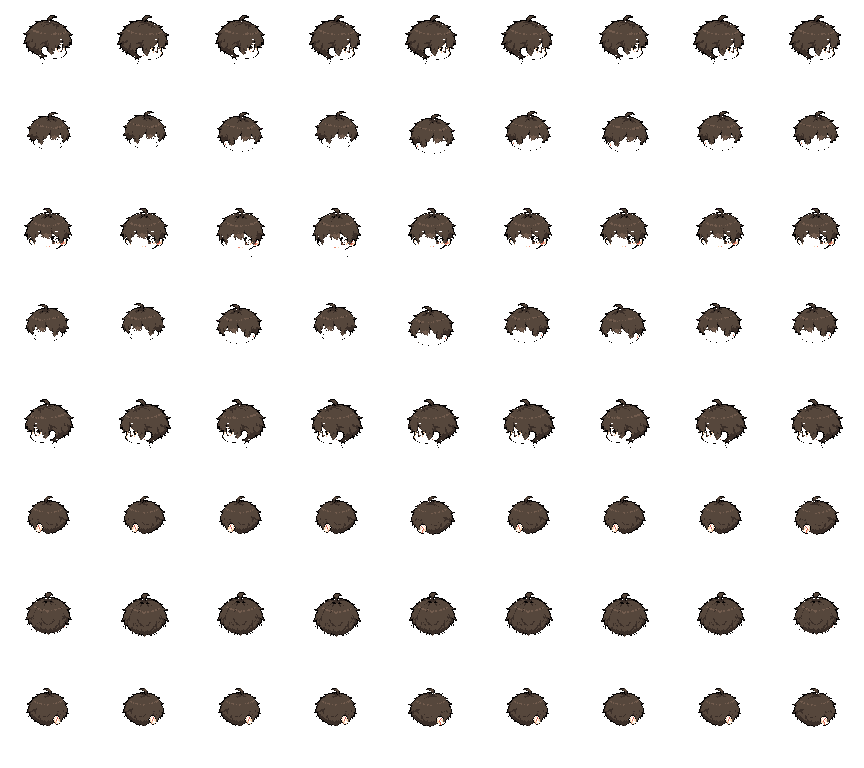
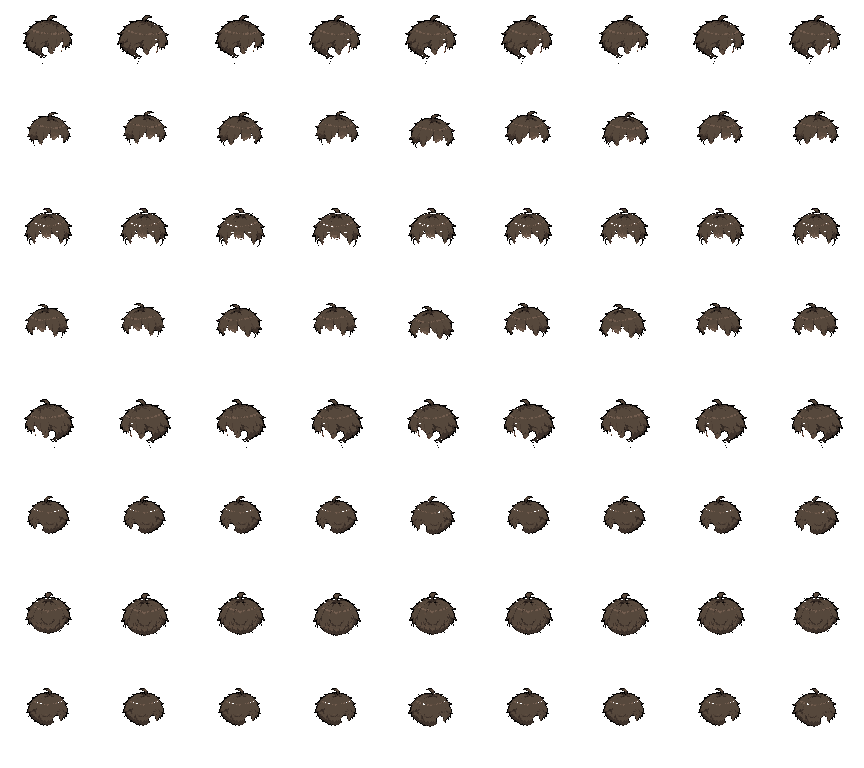
Second hairstyle: twin tails (Mew now a sprite wearing it)
Codex drew the twin tails on the same 5-direction base. hair_layer.py now
splits figures on the bald sheet and widens each column range to halfway
to its neighbours (long hair bridges the gaps), takes --cut=0.66 for hair
below the head, keeps only hair-coloured pixels inside the bald silhouette
(the palette is learned from hair outside it, so retouched faces are left
out), and drops specks with a plain flood fill. Both layers were rebuilt,
so the messy cut no longer covers the side-view face. The NPC Mew is a
SpriteChibi with hair_style twintail; the 3D chibi is no longer used.

Changed region(s): [[0.375, 0.2812, 0.4062, 0.3125]]

diff --git a/tools/hair_layer.py b/tools/hair_layer.py
@@ -9,6 +9,8 @@ Hair = pixels of the redraw that are new or changed compared with the bald sheet
 area. Like Ragnarok's headgear, it is drawn once per direction and placed on each frame by the
 head: scaled by the head's width and pinned to the head's top centre, which follows the walk bob.
 Writes a sheet the size of the walk sheet with only the hair, to draw over the body.
+--cut=0.66 keeps hair down to that share of the figure's height (default 0.58, the head);
+use it for long styles such as twin tails.
 """
 import sys
 from pathlib import Path
@@ -31,6 +33,31 @@ def load(path):
     return pf.key_background(np.array(Image.open(path).convert('RGBA')), [255, 0, 255], 90)
 
 
+def drop_specks(mask, keep=0.05):
+    """Keep only 4-connected blobs at least `keep` times the biggest (drops slivers of the
+    neighbouring figure and stray pixels). Plain flood fill, no SciPy needed."""
+    lab = np.zeros(mask.shape, np.int32)
+    sizes = [0]
+    h, w = mask.shape
+    for y0, x0 in zip(*np.nonzero(mask)):
+        if lab[y0, x0]:
+            continue
+        n = len(sizes)
+        lab[y0, x0] = n
+        stack, size = [(y0, x0)], 0
+        while stack:
+            y, x = stack.pop()
+            size += 1
+            for yy, xx in ((y - 1, x), (y + 1, x), (y, x - 1), (y, x + 1)):
+                if 0 <= yy < h and 0 <= xx < w and mask[yy, xx] and not lab[yy, xx]:
+                    lab[yy, xx] = n
+                    stack.append((yy, xx))
+        sizes.append(size)
+    sizes = np.array(sizes)
+    good = np.nonzero(sizes >= sizes.max() * keep)[0]
+    return np.isin(lab, good[good > 0])
+
+
 def head_anchor(fig):
     """(top row, centre x, width) of the head: the top 45% of the figure's opaque pixels"""
     al = fig[..., 3] > 0
@@ -40,16 +67,22 @@ def head_anchor(fig):
 
 
 def main():
-    if len(sys.argv) != 5:
+    args = [a for a in sys.argv[1:] if not a.startswith('--')]
+    cut = next((float(a[6:]) for a in sys.argv[1:] if a.startswith('--cut=')), 0.58)
+    if len(args) != 4:
         sys.exit(__doc__)
-    bald_p, hair_p, sheet_p, out_p = sys.argv[1:]
+    bald_p, hair_p, sheet_p, out_p = args
     bald, hair = load(bald_p), load(hair_p)
     h, w = min(bald.shape[0], hair.shape[0]), min(bald.shape[1], hair.shape[1])
     bald, hair = bald[:h, :w], hair[:h, :w]
 
-    parts = split_parts(np.maximum(bald[..., 3], hair[..., 3]), 20)
+    # Split on the bald figures (long hair can bridge the gaps), then widen each
+    # figure's columns to halfway to its neighbours so wide hair is kept.
+    parts = split_parts(bald[..., 3], 20)
     if len(parts) != 5:
         sys.exit(f'expected 5 figures, found {len(parts)}: {parts}')
+    edges = [0] + [(parts[i][1] + parts[i + 1][0]) // 2 for i in range(4)] + [w]
+    parts = [(edges[i], edges[i + 1]) for i in range(5)]
     layers = {}
     for (x0, x1), d in zip(parts, ORDER):
         b, r = bald[:, x0:x1], hair[:, x0:x1]
@@ -57,7 +90,18 @@ def main():
         btop, bh = ys[0], ys[-1] - ys[0] + 1
         diff = np.linalg.norm(r[..., :3].astype(float) - b[..., :3].astype(float), axis=-1)
         mask = (r[..., 3] > 0) & ((b[..., 3] == 0) | (diff > 60))
-        mask[btop + int(bh * 0.58):] = False                  # hair stays on the head, not the body
+        mask[btop + int(bh * cut):] = False                   # hair stays above --cut of the height (0.58: head)
+        # Inside the bald silhouette, the redraw also retouches the face; keep only
+        # pixels coloured like the hair, learned from the hair outside the silhouette.
+        outside = mask & (b[..., 3] == 0)
+        pal = np.unique(r[outside][:, :3] // 8, axis=0).astype(float) * 8 + 4
+        inside = np.argwhere(mask & (b[..., 3] > 0))
+        if len(pal) and len(inside):
+            cols = r[inside[:, 0], inside[:, 1], :3].astype(float)
+            near = np.min(np.linalg.norm(cols[:, None, :] - pal[None, :, :], axis=-1), axis=1)
+            far = inside[near > 24]
+            mask[far[:, 0], far[:, 1]] = False
+        mask = drop_specks(mask)
         layer = np.zeros_like(r)
         layer[mask] = r[mask]
         top, mid, width = head_anchor(b)
